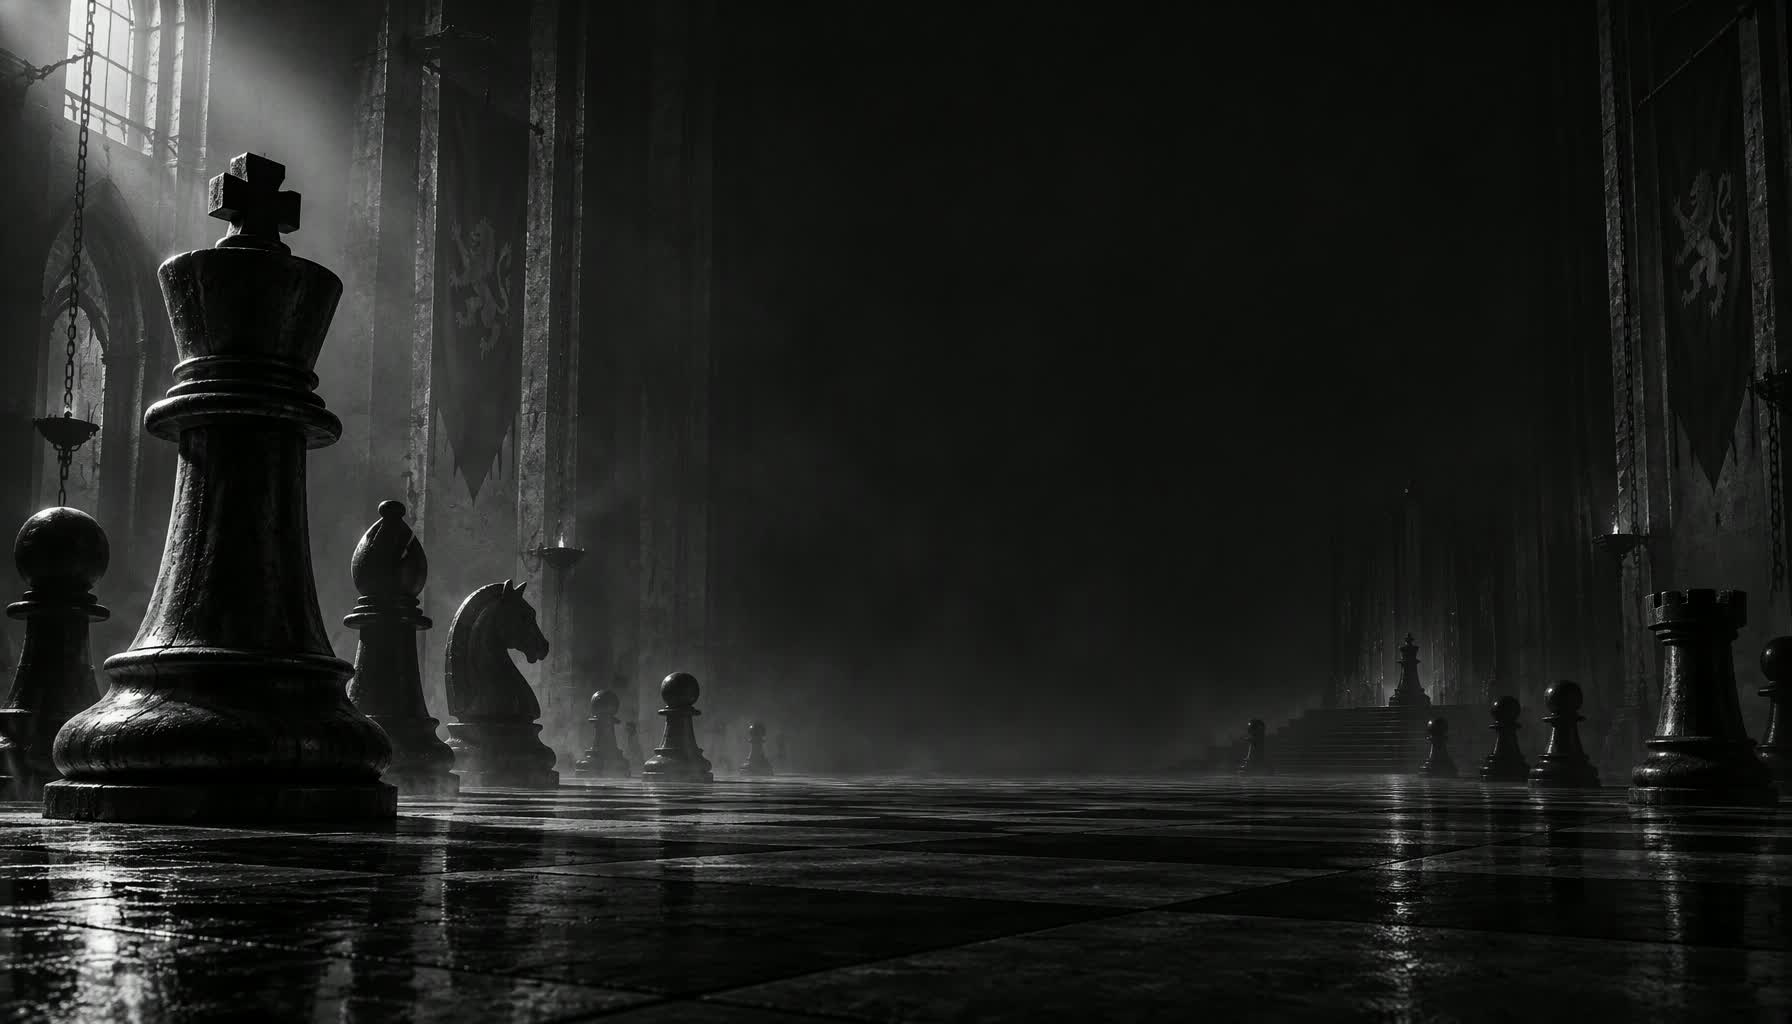
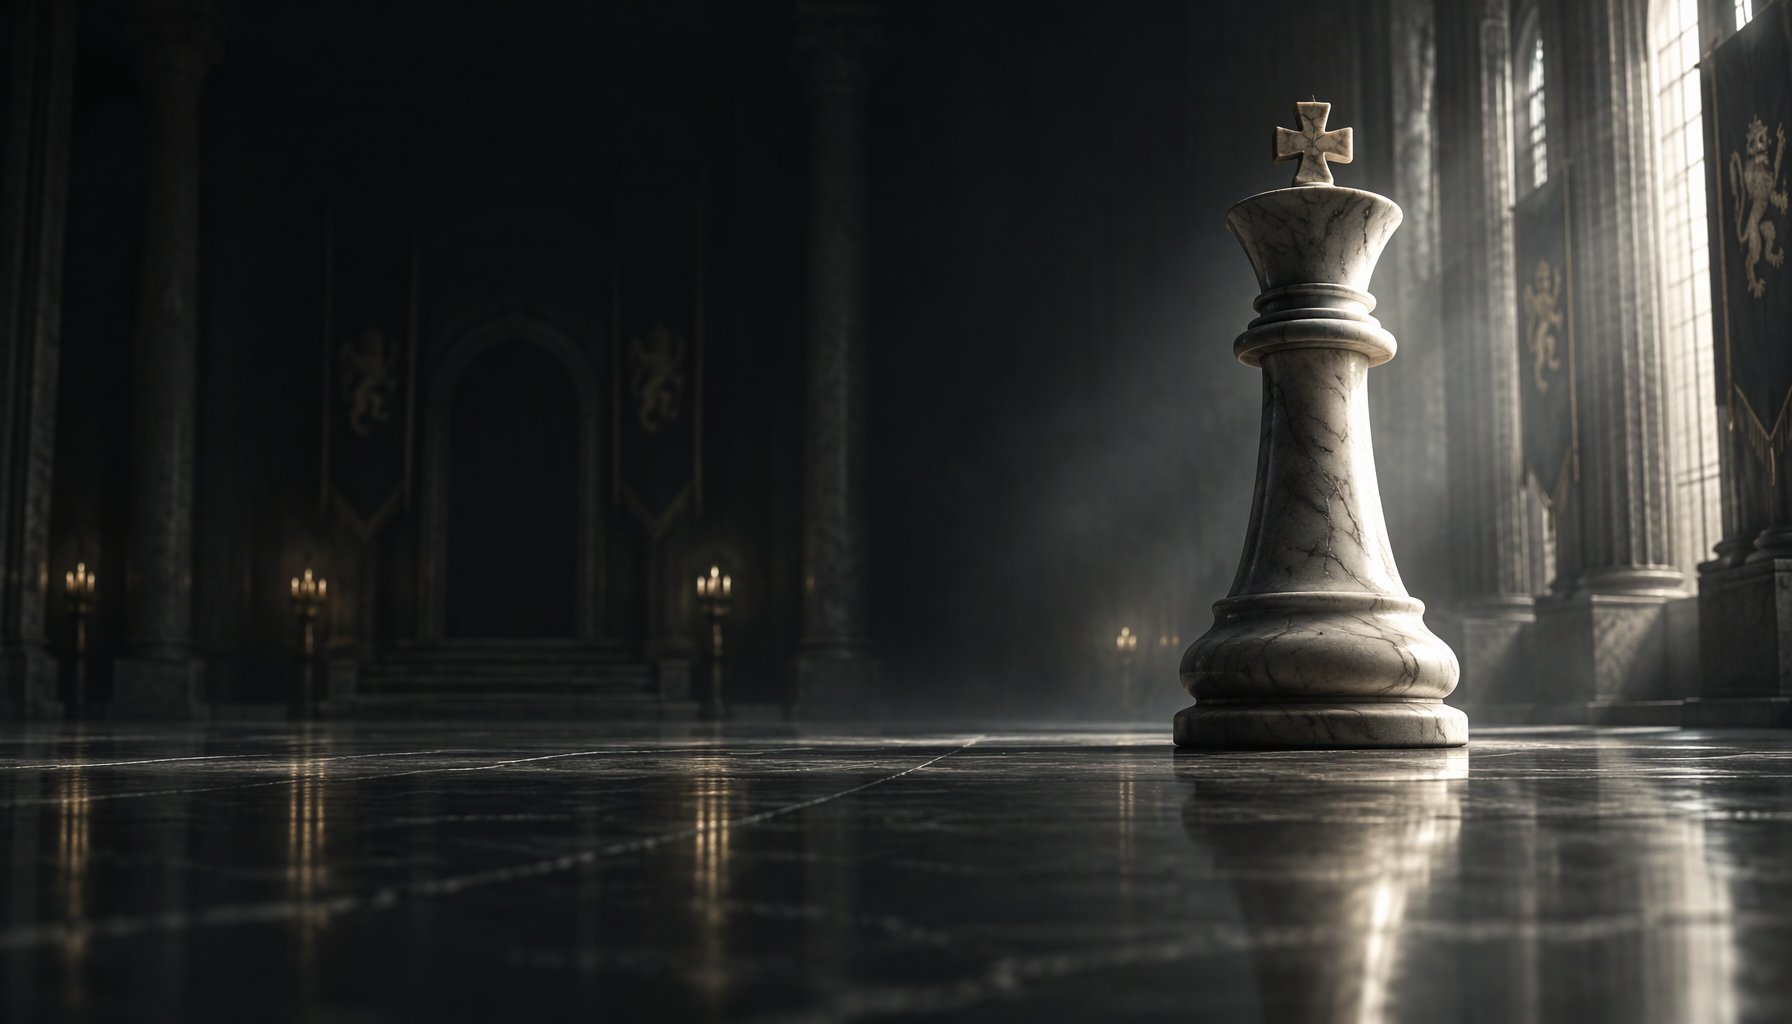
karmen bot, quieter voice, new art

diff --git a/src/board.html b/src/board.html
@@ -40,7 +40,7 @@ body {
 }
 
 /* ---------- шапка-журнал ---------- */
-.mast { position: relative; background: #151413 url("/img/bg.jpg") center 42% / cover no-repeat; }
+.mast { position: relative; background: #151413 url("/img/bg.jpg") 62% 35% / cover no-repeat; }
 .mast::after {
   content: "";
   position: absolute; inset: 0;
@@ -286,6 +286,11 @@ body {
   background:
     linear-gradient(180deg, rgba(10, 9, 8, .06) 0%, rgba(10, 9, 8, .42) 46%, rgba(10, 9, 8, .82) 100%),
     url("/img/neo.jpg") 50% 22% / cover no-repeat;
+}
+.brand.karmen {
+  background:
+    linear-gradient(180deg, rgba(10, 9, 8, .06) 0%, rgba(10, 9, 8, .42) 46%, rgba(10, 9, 8, .82) 100%),
+    url("/img/karmen.jpg") 50% 42% / cover no-repeat;
 }
 h1 { margin: 0; font: 600 26px/1 Georgia, "Times New Roman", serif; letter-spacing: .5px; color: #f5f2ea; }
 .sub { color: rgba(245, 242, 234, .74); font-size: 10px; margin-top: 4px; letter-spacing: .18em; text-transform: uppercase; }
@@ -539,7 +544,7 @@ button.primary:hover:not(:disabled) { background: #2f2c27; border-color: #2f2c27
     <div>
       <div class="kicker">Шахматы · движок · один на один</div>
       <h1 class="headline">Партия против машины</h1>
-      <p class="lede">grek считает быстрее, чем вы сомневаетесь. neo ошибается — но реже, чем кажется.</p>
+      <p class="lede">grek считает быстрее, чем вы сомневаетесь. neo ошибается — но реже, чем кажется. karmen идёт в атаку, не дожидаясь повода.</p>
     </div>
     <div class="mast-meta" id="mastMeta"></div>
   </div>
@@ -577,6 +582,7 @@ button.primary:hover:not(:disabled) { background: #2f2c27; border-color: #2f2c27
       <label class="row">Соперник
         <select id="opp">
           <option value="grek">grek · сильный</option>
+          <option value="karmen">karmen · средняя</option>
           <option value="neo">neo · слабее</option>
         </select>
       </label>
@@ -714,6 +720,7 @@ const PIECES_SVG = {
   var voiceStart = 0;
   var voiceEl = new Audio();
   voiceEl.preload = "auto";
+  voiceEl.volume = 0.55;
   voiceEl.onended = voiceEl.onerror = function () { voicePlaying = false; voicePri = 0; };
 
   function voice(file, pri, force) {
@@ -898,7 +905,7 @@ const PIECES_SVG = {
     var ahead = color === "w" ? diff : -diff;
     if (ahead > 0) { caps += "<b>+" + ahead + "</b>"; }
     var thinking = (!isMe && engineThinking) ? '<span class="think">думает…</span>' : "";
-    var av = isMe ? pieceSVG(me === "w" ? "K" : "k") : '<img src="/img/' + (opp === "neo" ? "neo" : "eye") + '.jpg" alt="">';
+    var av = isMe ? pieceSVG(me === "w" ? "K" : "k") : '<img src="/img/' + (opp === "neo" ? "neo" : opp === "karmen" ? "karmen" : "eye") + '.jpg" alt="">';
     return '<div class="avatar">' + av + "</div>" +
       '<div class="pinfo"><div class="pname">' + (isMe ? "Вы" : oppName()) + thinking + '</div><div class="caps">' + caps + "</div></div>" +
       '<div class="clock' + (clockOn ? "" : " hidden") + '" data-clock="' + color + '"></div>';
@@ -1006,7 +1013,7 @@ const PIECES_SVG = {
     if (state.status === "draw") { return { winner: null, reason: "повторение, правило 50 ходов или нет материала" }; }
     return null;
   }
-  function oppName() { return opp === "neo" ? "neo" : "grek"; }
+  function oppName() { return opp === "neo" || opp === "karmen" ? opp : "grek"; }
 
   function renderStatus() {
     var o = gameOver() ? outcome() : null;
@@ -1073,6 +1080,7 @@ const PIECES_SVG = {
   }
 
   /* ---------- архив и разбор ---------- */
+  function oppLabel(v) { return v === "neo" || v === "karmen" ? v : "grek"; }
   function loadLocal() {
     try {
       var v = JSON.parse(load("archive", "[]"));
@@ -1157,7 +1165,7 @@ const PIECES_SVG = {
         : "<b>" + winnerText(g.result, g.color) + "</b> · " + reasonText(g.reason);
       var plies = g.plies || (g.moves ? g.moves.length : 0);
       return '<div class="grow">' +
-        '<div class="who">Против ' + (g.opp === "neo" ? "neo" : "grek") + ' <i>· ' + movesWord(plies) + " · " + esc(g.tc === "0" ? "без часов" : g.tc + " мин") + '</i></div>' +
+        '<div class="who">Против ' + oppLabel(g.opp) + ' <i>· ' + movesWord(plies) + " · " + esc(g.tc === "0" ? "без часов" : g.tc + " мин") + '</i></div>' +
         '<div class="when">' + fmtWhen(g.ts) + '</div>' +
         '<div class="out">' + out + '</div>' +
         '<button class="btn-link" data-ana="' + esc(g.id) + '">Разбор</button>' +
@@ -1195,7 +1203,7 @@ const PIECES_SVG = {
         '</div>';
     }).join("");
     sheet.innerHTML =
-      sheetHead("Партия против " + (a.opp === "neo" ? "neo" : "grek"), "Разбор · " + winnerText(a.result, a.color) + (a.result === "draw" && a.reason === "draw" ? "" : " · " + reasonText(a.reason))) +
+      sheetHead("Партия против " + oppLabel(a.opp), "Разбор · " + winnerText(a.result, a.color) + (a.result === "draw" && a.reason === "draw" ? "" : " · " + reasonText(a.reason))) +
       '<div class="ana-head"><div><div class="kicker2">Точность игры</div>' +
       '<div class="note" style="margin-top:8px">' + (a.color === "w" ? "вы играли белыми" : "вы играли чёрными") + '</div>' +
       '<div class="elo-line">Средняя потеря <b>' + Math.round(a.acpl) + '</b> сп · <b>≈ ' + eloFromAcpl(a.acpl) + '</b> Elo' +
@@ -1265,11 +1273,15 @@ const PIECES_SVG = {
       $("resText").innerHTML = opp === "grek"
         ? "В чём смысл человечества, остановившегося в развитии?<br>" +
           "<small style='opacity:.6'>— пасхалка от Альтрона</small>"
-        : "neo просчитал эту партию точнее. Пока что.";
+        : opp === "karmen"
+          ? "karmen довела атаку до конца. В этот раз."
+          : "neo просчитал эту партию точнее. Пока что.";
     } else {
       $("resText").textContent = opp === "neo" && o.winner === me
         ? "neo пересчитал варианты — и сдался первым. Пока что."
-        : o.winner === null
+        : opp === "karmen" && o.winner === me
+          ? "karmen атаковала до последнего — и сдалась."
+          : o.winner === null
           ? o.reason.charAt(0).toUpperCase() + o.reason.slice(1)
           : (o.winner === "w" ? "Белые" : "Чёрные") + " выиграли: " + o.reason;
     }
@@ -1475,13 +1487,16 @@ const PIECES_SVG = {
 
   async function newGame() {
     var id = ++gameId;
-    opp = $("opp").value === "neo" ? "neo" : "grek";
+    opp = $("opp").value;
+    if (opp !== "neo" && opp !== "karmen") { opp = "grek"; }
     gameKey = Date.now();
     savedGame = -1;
     document.title = "Шахматы против " + oppName();
-    $("brandCard").className = "brand" + (opp === "neo" ? " neo" : "");
+    $("brandCard").className = "brand" + (opp === "grek" ? "" : " " + opp);
     $("brandName").textContent = oppName();
-    $("brandSub").textContent = opp === "neo" ? "младшая сеть · ≈ 1300" : "шахматный движок · ≈ 2300";
+    $("brandSub").textContent = opp === "neo" ? "младшая сеть · ≈ 1300"
+      : opp === "karmen" ? "атакующая сеть · ≈ 1700"
+      : "шахматный движок · ≈ 2300";
     var cv = $("color").value;
     me = cv === "r" ? (Math.random() < 0.5 ? "w" : "b") : cv;
     flipped = me === "b";
@@ -1548,7 +1563,7 @@ const PIECES_SVG = {
   var MONTHS = ["января", "февраля", "марта", "апреля", "мая", "июня", "июля", "августа", "сентября", "октября", "ноября", "декабря"];
   var now = new Date();
   $("mastMeta").innerHTML = "<b>" + now.getDate() + " " + MONTHS[now.getMonth()] + " " + now.getFullYear() + "</b>" +
-    "<span>движки grek и neo · без внешних сервисов</span>";
+    "<span>движки grek, karmen и neo · без внешних сервисов</span>";
   setInterval(tick, 100);
   newGame();
 })();

diff --git a/src/main.rs b/src/main.rs
@@ -720,6 +720,14 @@ fn state_json(
     )
 }
 
+fn norm_opp(v: &str) -> &'static str {
+    match v {
+        "neo" => "neo",
+        "karmen" => "karmen",
+        _ => "grek",
+    }
+}
+
 fn api(search: &mut Search, query: &str) -> String {
     let mut moves_param = "";
     let mut ms: u64 = 1000;
@@ -733,7 +741,7 @@ fn api(search: &mut Search, query: &str) -> String {
                 "ms" => ms = v.parse().unwrap_or(1000),
                 "engine" => engine = v == "1",
                 "hint" => want_hint = v == "1",
-                "opp" => opp = if v == "neo" { "neo" } else { "grek" },
+                "opp" => opp = norm_opp(v),
                 _ => {}
             }
         }
@@ -758,11 +766,20 @@ fn api(search: &mut Search, query: &str) -> String {
     if ongoing && (engine || want_hint) {
         let stm = board.side_to_move();
         let is_rook_origin = |b: &Board, m: Move| b.piece_on(m.from) == Some(Piece::Rook);
-        let neo = opp == "neo" && engine;
-        if neo {
+        if opp == "neo" && engine {
             if let Some((m, white_eval)) = neo_pick(search, &board, &path) {
                 eval = Some(white_eval);
                 depth = 3;
+                let s = display_uci_move(&board, m).to_string();
+                board.play(m);
+                path.push(board.hash());
+                moves_s.push(s.clone());
+                engine_move = Some(s);
+            }
+        } else if opp == "karmen" && engine {
+            if let Some((m, white_eval)) = karmen_pick(search, &board, &path) {
+                eval = Some(white_eval);
+                depth = 5;
                 let s = display_uci_move(&board, m).to_string();
                 board.play(m);
                 path.push(board.hash());
@@ -843,8 +860,59 @@ fn neo_pick(search: &mut Search, board: &Board, path: &[u64]) -> Option<(Move, i
     Some((scored[idx].0, scored[idx].1))
 }
 
-fn rand64() -> u64 {
-    let mut s = std::time::SystemTime::now()
+/// karmen: ≈1700 — считает глубже neo и ошибается реже,
+/// но тянется к взятиям и шахам.
+fn karmen_pick(search: &mut Search, board: &Board, path: &[u64]) -> Option<(Move, i32)> {
+    let legal = legal_moves(board);
+    if legal.is_empty() {
+        return None;
+    }
+    let was_quiet = search.quiet;
+    search.quiet = true;
+    let mut scored: Vec<(Move, i32, i32)> = Vec::with_capacity(legal.len());
+    for &m in &legal {
+        let capture = board.colors(!board.side_to_move()).has(m.to);
+        let mut child = board.clone();
+        child.play(m);
+        let gives_check = !child.checkers().is_empty();
+        let mut cpath = path.to_vec();
+        cpath.push(child.hash());
+        let (white_eval, root_score) = if legal_moves(&child).is_empty() {
+            if child.checkers().is_empty() {
+                (0, 0)
+            } else if board.side_to_move() == Color::White {
+                (MATE - 50, MATE - 50)
+            } else {
+                (-MATE + 50, MATE - 50)
+            }
+        } else {
+            match search.think(&child, &cpath, Duration::from_millis(60), 5) {
+                Some(_) => {
+                    let sc = search.last_score;
+                    let white = if child.side_to_move() == Color::White { sc } else { -sc };
+                    (white, -sc)
+                }
+                None => (0, 0),
+            }
+        };
+        let aggression = (if capture { 25 } else { 0 }) + (if gives_check { 15 } else { 0 });
+        scored.push((m, white_eval, root_score + aggression));
+    }
+    search.quiet = was_quiet;
+    scored.sort_by(|a, b| b.2.cmp(&a.2));
+
+    let seed = rand64();
+    let rnd = ((seed >> 11) % 1_000_003) as f64 / 1_000_003.0;
+    let max_rank = scored.len().saturating_sub(1).min(2);
+    let idx = if max_rank > 0 && rnd < 0.08 {
+        1 + ((seed >> 8) as usize) % max_rank
+    } else {
+        0
+    };
+    Some((scored[idx].0, scored[idx].1))
+}
+
+fn rand64() -> u64 {    let mut s = std::time::SystemTime::now()
         .duration_since(std::time::UNIX_EPOCH)
         .map(|d| d.as_nanos() as u64)
         .unwrap_or(0x2545_F491_4F6C_DD1D);
@@ -1034,7 +1102,7 @@ fn save_game(query: &str) -> String {
     }
     let ts: u64 = s("ts").parse().unwrap_or(0);
     let ems: u64 = s("ems").parse().unwrap_or(0);
-    let opp = if opp == "neo" { "neo" } else { "grek" };
+    let opp = norm_opp(&opp);
     let line = format!(
         "{}\t{}\t{}\t{}\t{}\t{}\t{}\t{}\t{}\n",
         id, ts, color, result, reason, tc, ems, opp, mv.join(" ")
@@ -1175,7 +1243,7 @@ fn inline_game(map: &std::collections::HashMap<String, String>) -> Option<SavedG
         reason: reason.to_string(),
         tc: map.get("tc").cloned().unwrap_or_default(),
         ems: map.get("ems").and_then(|s| s.parse().ok()).unwrap_or(0),
-        opp: if map.get("opp").map(|s| s == "neo").unwrap_or(false) { "neo".to_string() } else { "grek".to_string() },
+        opp: norm_opp(map.get("opp").map(|s| s.as_str()).unwrap_or("grek")).to_string(),
         moves,
     })
 }
